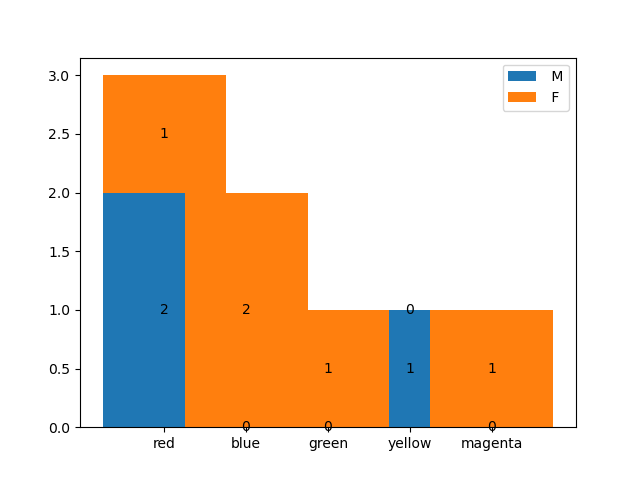
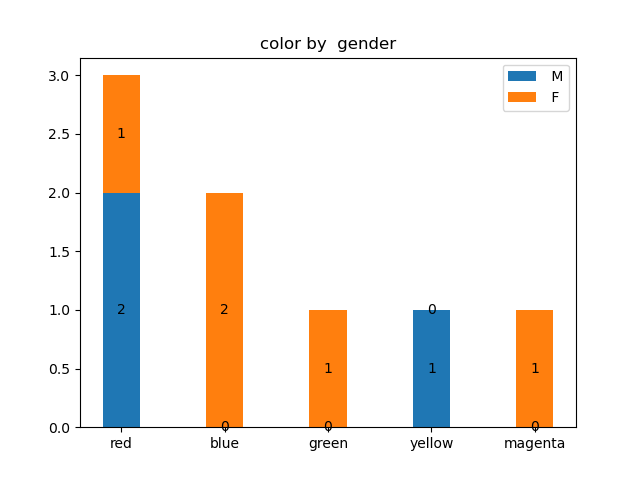
function charts microservice + sending to db topic

diff --git a/microservice02/index.js b/microservice02/index.js
@@ -6,6 +6,7 @@ const kafka = new Kafka({
 });
 
 const consumer = kafka.consumer({ groupId: 'group_1' });
+const producer = kafka.producer();
 
 const fs = require("fs");
 const chartExporter = require("highcharts-export-server");
@@ -37,8 +38,19 @@ async function run() {
 
       const pythonProcess = spawn('python3', [pythonScriptPath, pythonArgs]);
 
-      pythonProcess.stdout.on('data', (data) => {
-        console.log(`stdout: ${data}`);
+      pythonProcess.stdout.on('data', async (data) => {
+        //console.log(`stdout: ${data}`);
+        const message = {
+          key: 'key',
+          value: JSON.stringify({
+            svg: data
+          })
+        };
+        await producer.connect();
+        await producer.send({
+          topic: 'chart_to_database',
+          messages: [ message ]
+        });
       });
 
       pythonProcess.stderr.on('data', (data) => {

diff --git a/microservice02/consumer.py b/microservice02/consumer.py
@@ -1,10 +1,10 @@
 from json import dumps
-#from pymongo import MongoClient
+from matplotlib.backends.backend_svg import FigureCanvasSVG
 import matplotlib.pyplot as plt
 import numpy as np
 import pandas as pd
 import sys
-
+import io
 
 arg_string = sys.argv[1]
 arg_values = arg_string.split(',')
@@ -22,11 +22,8 @@ for value in arg_values[3::2]:
     data2.append(value)
 
 series = [data1, data2]
-# print(tit2)
-#print(data)'''
-#series = [('red', 'blue', 'red', 'red', 'blue', 'green', 'yellow', 'magenta'), ('M', 'F', 'F', 'M', 'F', 'F', 'M', 'F')]
 
-#print("consumer.py talking")
+#series = [('red', 'blue', 'red', 'red', 'blue', 'green', 'yellow', 'magenta'), ('M', 'F', 'F', 'M', 'F', 'F', 'M', 'F')]
 
 characteristics = np.array(series[0])
 values = np.array(series[1])
@@ -46,7 +43,7 @@ for value in dataset['values'].unique():
 print(data)
 chars = np.array(dataset['char'].unique())
 print(chars)
-width = (1.8 / 1.2)
+width = (1.8 / chars.size)
 
 fig, ax = plt.subplots()
 bottom = np.zeros(chars.size)
@@ -56,8 +53,15 @@ for val, val_count in data.items():
     bottom += val_count
     ax.bar_label(p, label_type='center')
 
-#ax.set_title(tit1, ' by ', tit2)
+ax.set_title(tit1 + ' by ' + tit2)
 ax.legend()
 
-plt.show()
+#plt.show()
 plt.savefig('foo.png')
+svg_bytes = io.BytesIO()
+canvas = FigureCanvasSVG(fig)
+canvas.print_svg(svg_bytes)
+plt.close()
+
+svg_string = svg_bytes.getvalue().decode()
+print(svg_string)
